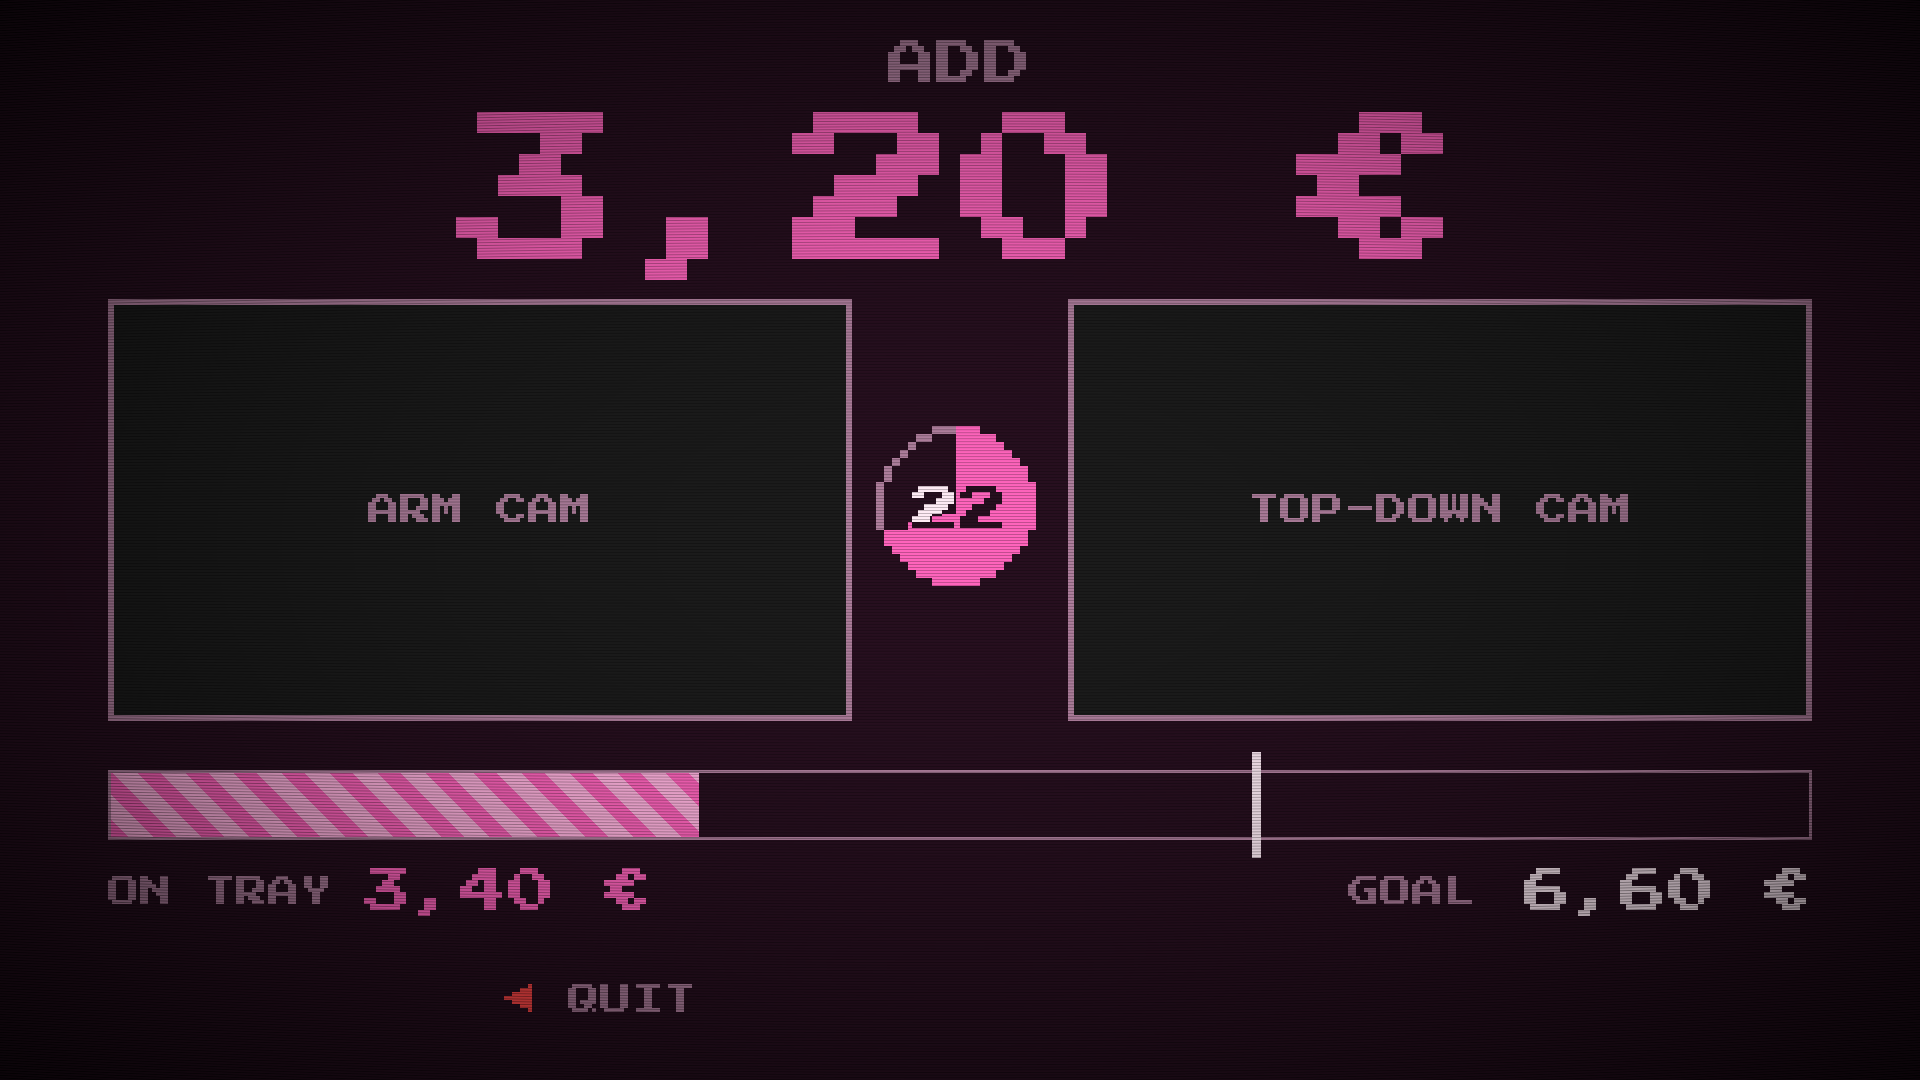
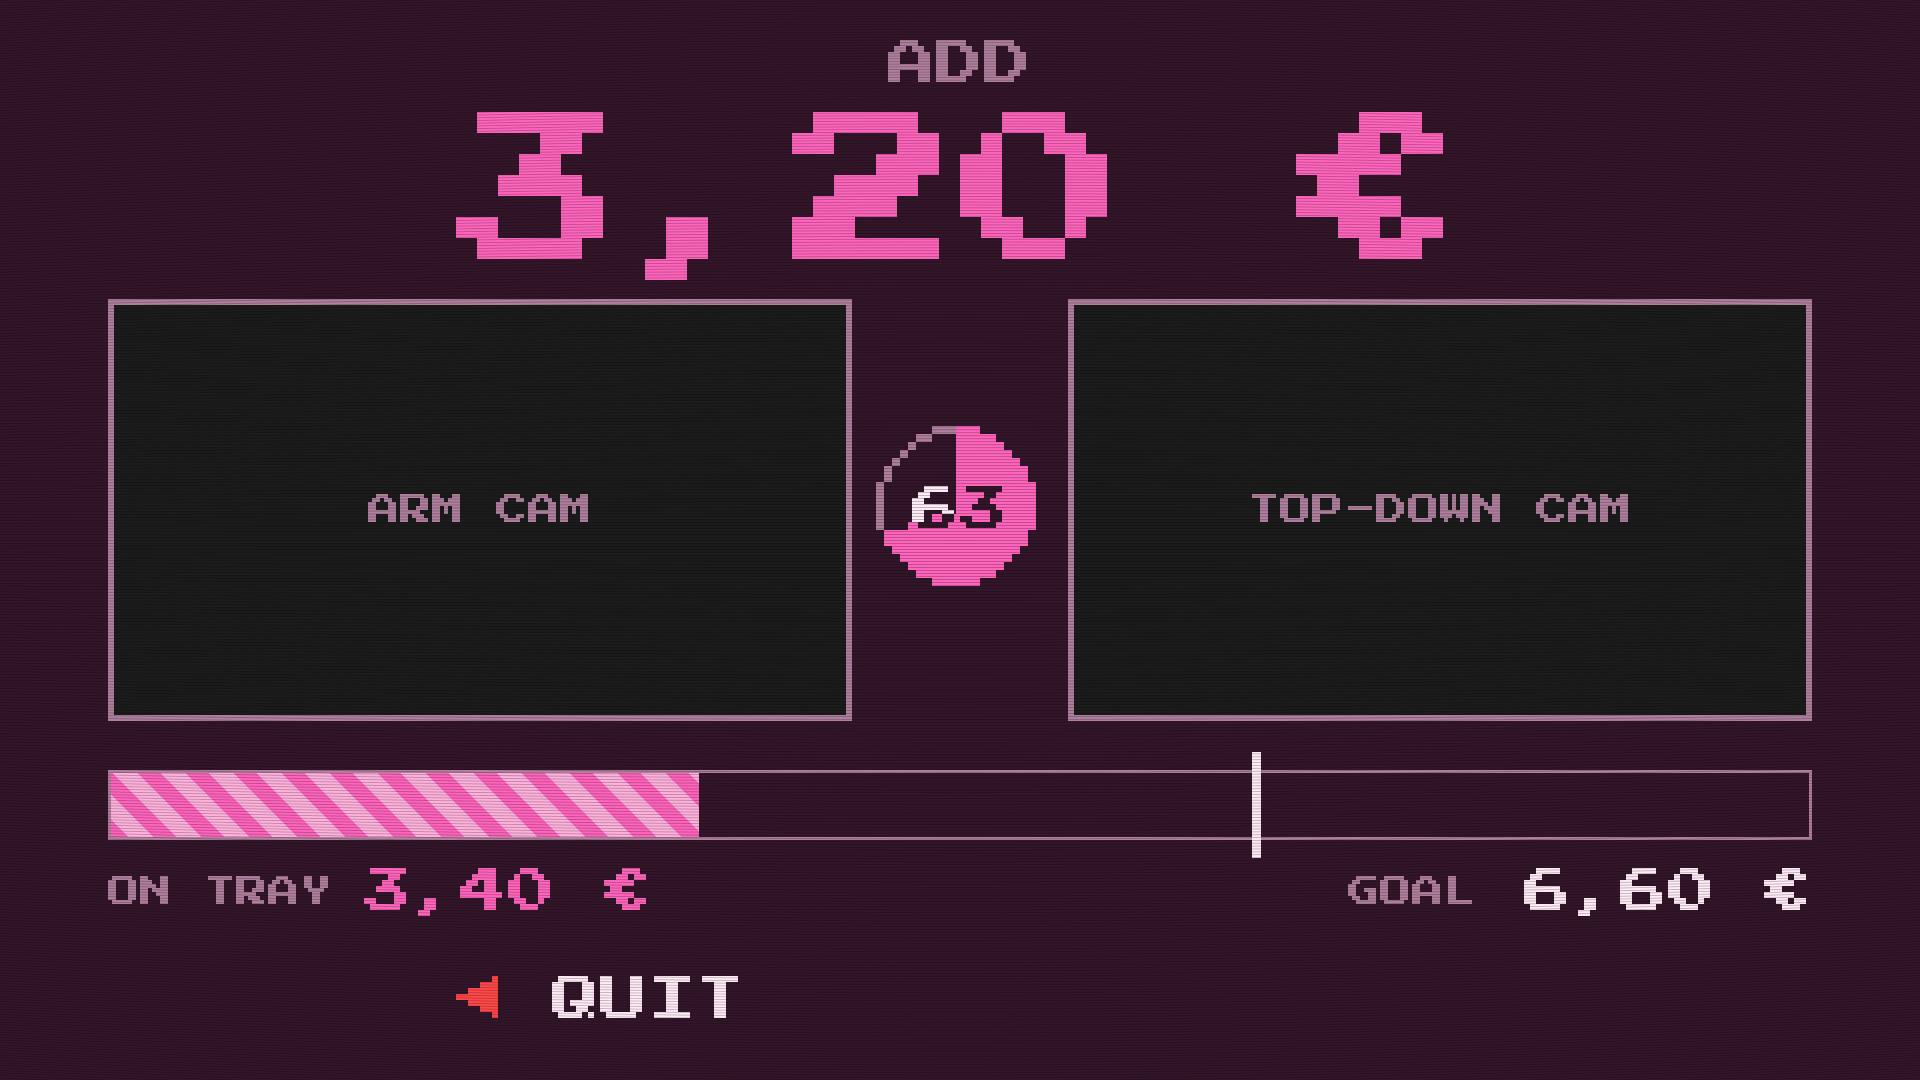
feat: 90 s rounds, brighter screen, smaller detection window
First cabinet test: the game is harder than expected and the panel has
poor viewing angles. Scoring scale unchanged.

- round length 90 s instead of 30 (GAP_MOVES stays 2)
- vignette removed, background (52,22,42) instead of (40,16,32)
- footer hints white and 48 px instead of grey 32 px
- top-down camera at hardware zoom 40, larger ArUco threshold windows
- TRAY_ROI shrunk to a field in front of the arm, chosen on a camera
  frame (docs/shots/roi-*), checked against the game's own detector

diff --git a/game/config.py b/game/config.py
@@ -127,7 +127,6 @@ FONT_SIZES = {"big": 168, "title": 144, "mid": 88, "small": 48, "tiny": 32}
 CRT            = os.environ.get("PNP_CRT", "1") != "0"
 SCANLINE_STEP  = 3     # darken every third row
 SCANLINE_ALPHA = 60    # tune at the venue, lower it if in doubt
-VIGNETTE_ALPHA = 90    # darkening in the corners
 BARREL_K       = float(os.environ.get("PNP_BARREL", "0.05"))
                        # distortion of the scanlines and nothing more: they
                        # curve as if on a tube and draw together toward the
@@ -181,15 +180,15 @@ CENTS  = 10        # one VALUES step in cents. Only read by euro().
 # (FPV, an opponent) gets its seam where it needs it -- a speculative
 # interface would guess the wrong place.
 #
-# ROUND_SECONDS  round length. 30 instead of 60 since the scoring meeting:
-#                double throughput at the booth, and perfect becomes rare
-#                enough that the 1000 means something.
+# ROUND_SECONDS  round length. 90 since the first cabinet test (2026-09-16):
+#                the 30 from the scoring meeting were far too short, the
+#                game is harder than expected. The scoring scale stays; the
+#                time bonus and the music stages scale with this value.
 # PERFECT_HOLD   how long the total has to be right before the round ends
-#                early. The old 5 s would be a sixth of the round at 30 s.
-#                MARKER_HOLD is enough against flicker anyway.
+#                early. MARKER_HOLD is enough against flicker anyway.
 # GAP_MOVES      how many moves the perfect solution may cost. A
-#                teleoperated pick takes 10-20 s -- at 30 s round time, three
-#                moves would be a promise the arm can't keep.
+#                teleoperated pick takes 10-20 s, measured before the cabinet
+#                test. Kept at 2 with the 90 s round: easier stays the point.
 # GAP_MIN/MAX    band the distance to the target may fall in. Not the
 #                binding dial, see GAP_ONE_MAX.
 # GAP_ONE_MISS   how far off the best SINGLE move must be at minimum.
@@ -201,7 +200,7 @@ CENTS  = 10        # one VALUES step in cents. Only read by euro().
 #                this price set, the self-test in balance.py prints the
 #                number on every run.
 MODES = {
-    "normal": dict(ROUND_SECONDS=30, PERFECT_HOLD=3.0, GAP_MOVES=2,
+    "normal": dict(ROUND_SECONDS=90, PERFECT_HOLD=3.0, GAP_MOVES=2,
                    GAP_MIN=25, GAP_MAX=98, GAP_ONE_MISS=2, GAP_ONE_MAX=25),
 }
 MODE = os.environ.get("PNP_MODE", "normal")
@@ -289,6 +288,12 @@ CAM_INDEXES   = (0, 0) if MAC else tuple(
     int(os.path.realpath(f"/dev/v4l/by-path/{p}-video-index0").removeprefix("/dev/video"))
     for p in CAM_PORTS)
 CAM_SIZE      = (1280, 720)
+# Hardware zoom of the top-down camera (V4L2 zoom_absolute, 0..60). The
+# camera crops its 5 MP sensor, so the zoomed image has real detail, not
+# upscaled pixels: at 40 the tray fills the frame and a marker gets about
+# twice the pixels it had at 0. Set on every start, because the camera keeps
+# whatever value the last program left behind.
+CAM_ZOOM      = 40
 # 736 x 414 is exactly 16:9 (736 * 9/16 = 414) — a different ratio distorts.
 # 1.8 times the area of the earlier 544 x 306: the player steers the arm by
 # these images, so they get priority. The instruction sits above, the bar
@@ -298,11 +303,14 @@ CAM_VIEW      = (736, 414)
 CAM_POS       = ((480, 510), (1440, 510))   # centers, left is the arm
 MARKER_HOLD   = 0.5    # hysteresis: marker keeps counting while occluded for less than this
 DETECT_HZ     = 15     # detection rate, decoupled from the 60 FPS
-# Detection window of the top-down camera, as fractions (x, y, width, height).
-# The wide-angle lens otherwise sees half the booth; only what's inside this
-# window is detected. The rectangle is drawn into the image, so it's set in
-# the hall while aligning the camera and the result is visible immediately.
-TRAY_ROI      = (0.20, 0.15, 0.60, 0.70)
+# Detection window of the top-down camera, as fractions (x, y, width, height)
+# of the ZOOMED image. Only what's inside this window is detected. Since
+# 2026-09-16 a field right in front of the arm, picked on a camera frame
+# (docs/shots/roi-*): the earlier window covered nearly the whole board,
+# so everything lying anywhere on it counted. The rectangle is
+# drawn into the image, so it's set in the hall while aligning the camera and
+# the result is visible immediately.
+TRAY_ROI      = (0.37, 0.50, 0.30, 0.35)
 MARK_FONT     = "tiny"    # font size of the overlaid prices. Currently read
                           # by nothing: the overlay has been commented out
                           # since 2026-09-11, because the prices are meant to

diff --git a/game/app.py b/game/app.py
@@ -43,7 +43,7 @@ def action_of(e):
 
 
 def crt_gain(w, h, k):
-    """Scanlines + vignette as a per-pixel brightness factor. Built once.
+    """Scanlines as a per-pixel brightness factor. Built once.
 
     Blending black with alpha a is algebraically nothing but
     dst * (1 - a/255) -- a multiplication, and the map for that is ready at
@@ -76,17 +76,15 @@ def crt_gain(w, h, k):
     y, x = np.indices((h, w), dtype=np.float32)
     nx = x / (w - 1) * 2 - 1
     ny = y / (h - 1) * 2 - 1
-    # Vignette from the *unwarped* radius, unchanged from before: curving a
-    # soft radial gradient by 10% is invisible to anyone, and this way the
-    # darkening stays exactly what gets set at the venue.
-    a = VIGNETTE_ALPHA * (nx * nx + ny * ny)          # corner = 2 x ALPHA
+    # No vignette since 2026-09-16: the panel's poor viewing angles already
+    # darken the edges, the dark corners made that worse.
     f  = 1 + k * (nx * nx + ny * ny)   # reach further out the further out = distortion
     sy = (ny * f + 1) / 2 * (h - 1)    # warped source row, fractional
     ph = np.mod(sy, SCANLINE_STEP)
     # Triangular coverage around the dark row. At k = 0 this falls back, to
     # within a bit, to "every third row fully dark", i.e. to the previous
     # behavior (verified by calculation, largest deviation 1 of 255).
-    a += SCANLINE_ALPHA * (np.clip(1 - ph, 0, 1)
+    a = SCANLINE_ALPHA * (np.clip(1 - ph, 0, 1)
                            + np.clip(1 - (SCANLINE_STEP - ph), 0, 1))
     return cv2.cvtColor(np.clip(255 - a, 0, 255).astype(np.uint8),
                         cv2.COLOR_GRAY2BGRA)

diff --git a/game/hw.py b/game/hw.py
@@ -68,7 +68,7 @@ class Camera:
     detection visibly lags behind.
     """
 
-    def __init__(self, index, size=CAM_SIZE, warmup=3.0):
+    def __init__(self, index, size=CAM_SIZE, warmup=3.0, zoom=None):
         self.cap = cv2.VideoCapture(index)
         if not self.cap.isOpened():
             # Fail loudly, don't silently fall back to a stand-in: made-up
@@ -80,6 +80,8 @@ class Camera:
         self.cap.set(cv2.CAP_PROP_FRAME_WIDTH,  size[0])
         self.cap.set(cv2.CAP_PROP_FRAME_HEIGHT, size[1])
         self.cap.set(cv2.CAP_PROP_BUFFERSIZE, 1)
+        if zoom is not None:
+            self.cap.set(cv2.CAP_PROP_ZOOM, zoom)
         self.lock = threading.Lock()
         self.frame = None
         self.seq = 0          # counts new frames so CameraView can cache
@@ -144,6 +146,11 @@ class ArucoDetector:
         # marker inverted. It still finds normal markers, it tries both.
         params = cv2.aruco.DetectorParameters()
         params.detectInvertedMarker = True
+        # Larger threshold windows: the pink macaron carries a purple marker,
+        # little contrast in gray. Measured 2026-09-16 at zoom 40: 84 instead
+        # of 68 of 90 frames, 9 instead of 4 ms -- plenty at DETECT_HZ.
+        params.adaptiveThreshWinSizeMax = 53
+        params.adaptiveThreshWinSizeStep = 6
         self.det = cv2.aruco.ArucoDetector(
             cv2.aruco.getPredefinedDictionary(cv2.aruco.DICT_4X4_50), params)
         threading.Thread(target=self._loop, daemon=True).start()

diff --git a/game/scenes.py b/game/scenes.py
@@ -265,16 +265,16 @@ def footer(screen, f, left=None, right=None, note=None):
     Position instead of word order carries the direction: arrow always
     first, the left hint field on the left, the right one on the right.
     """
+    # WHITE and "small" since 2026-09-16: GREY "tiny" was too dark and hard
+    # to read at the cabinet's poor viewing angles. The urgency of the
+    # follow-up question is carried by the red arrow, not the word.
     if note:
-        # Brighter than the normal hints: the follow-up question isn't a
-        # label, it's a question that needs an answer. The urgency is still
-        # carried by the red arrow, not the word.
-        draw_hint(screen, f["tiny"], note, 960, FOOTER_Y, WHITE)
+        draw_hint(screen, f["small"], note, 960, FOOTER_Y, WHITE)
         return
     if left:
-        draw_hint(screen, f["tiny"], left, 600, FOOTER_Y)
+        draw_hint(screen, f["small"], left, 600, FOOTER_Y, WHITE)
     if right:
-        draw_hint(screen, f["tiny"], right, 1320, FOOTER_Y)
+        draw_hint(screen, f["small"], right, 1320, FOOTER_Y, WHITE)
 
 
 class IdleScene(SceneBase):

diff --git a/game/themes/sugar_rush.py b/game/themes/sugar_rush.py
@@ -16,9 +16,10 @@ button colors (physical buttons), VALUES (scoring), the title PICK'N'PLAY.
 # ── Screen ────────────────────────────────────────────────────────────────
 # Chocolate background instead of black, pink instead of yellow, cream instead
 # of white. The background is dark enough that contrast stays the same as on
-# black (label text 5.4 : 1). The jobs apply to every theme -- a new one swaps
+# black (label text 5.0 : 1). The jobs apply to every theme -- a new one swaps
 # the colors, not the roles:
-BG     = (40, 16, 32)       # background, always
+BG     = (52, 22, 42)       # background, always. Was (40, 16, 32) until
+                            # 2026-09-16, too dark on the cabinet panel
 GREY   = (176, 128, 158)    # labels
 WHITE  = (255, 236, 246)    # neutral values
 ACCENT = (255, 101, 189)    # what the visitor is currently affecting

diff --git a/game/main.py b/game/main.py
@@ -1,7 +1,7 @@
 import cv2
 import pygame
 from config import (WIDTH, HEIGHT, FPS, FONT_PATH, FONT_SIZES, CAMERA,
-                    CAM_INDEXES, DEMO_VIDEO, CV_THREADS, BUTTONS)
+                    CAM_INDEXES, CAM_ZOOM, DEMO_VIDEO, CV_THREADS, BUTTONS)
 from app import Ctx, run_game
 from db import DB
 from hw import (ArucoDetector, Buttons, Camera, CameraView, FakeDetector,
@@ -20,8 +20,9 @@ def main():
     # One Camera object per physical index: if CAM_INDEXES has the same 0
     # twice, the device is not opened twice (that fails), instead one
     # grabber feeds both panes.
-    cams = {i: Camera(i) for i in set(CAM_INDEXES)} if CAMERA else {}
     arm, top = CAM_INDEXES
+    cams = {i: Camera(i, zoom=CAM_ZOOM if i == top else None)
+            for i in set(CAM_INDEXES)} if CAMERA else {}
     det = ArucoDetector(cams[top]) if cams else FakeDetector()
     # Left is plain passthrough, right is the same image plus overlay. Only
     # the top-down pane gets the detector.

diff --git a/docs/todo.md b/docs/todo.md
@@ -5,6 +5,19 @@ Legend: ● done · ◐ started · ○ open · ✱ waiting on a decision
 
 ---
 
+## 0 · From the first cabinet test (2026-09-16)
+
+The game is harder than expected. The scoring scales stay as they are.
+
+- ○ **Geofencing the arms**: not today, see section 1
+- ● **Remove the vignette**: the panel has poor viewing angles, so dark corners look even darker
+- ● **Slightly brighter background**: the whole screen looks a bit dark
+- ● **Smaller detection window**: right now everything on the surface falls inside it
+- ● **Footer prompts (◀ BACK / ▶ START …)**: too dark and outside the field of view
+- ● **Round length 90 s instead of 30 s**
+
+---
+
 ## 1 · Hardware integration
 
 ### ○ Geofencing the arms
